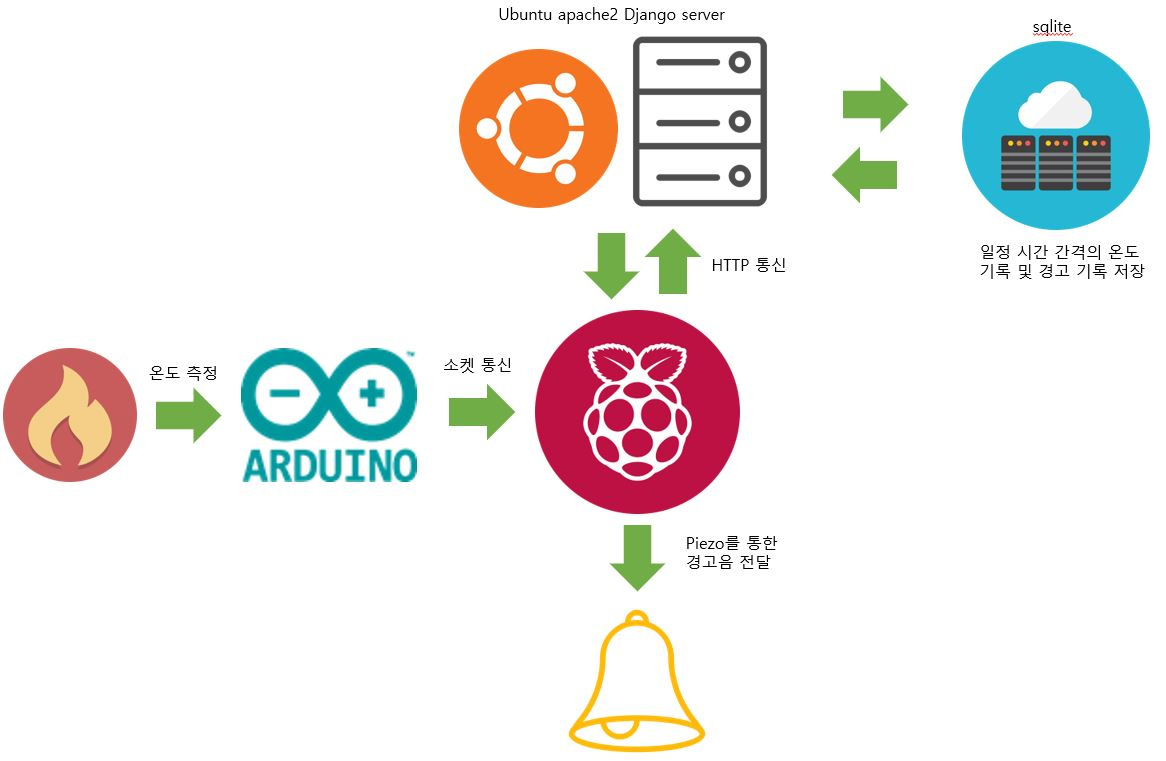
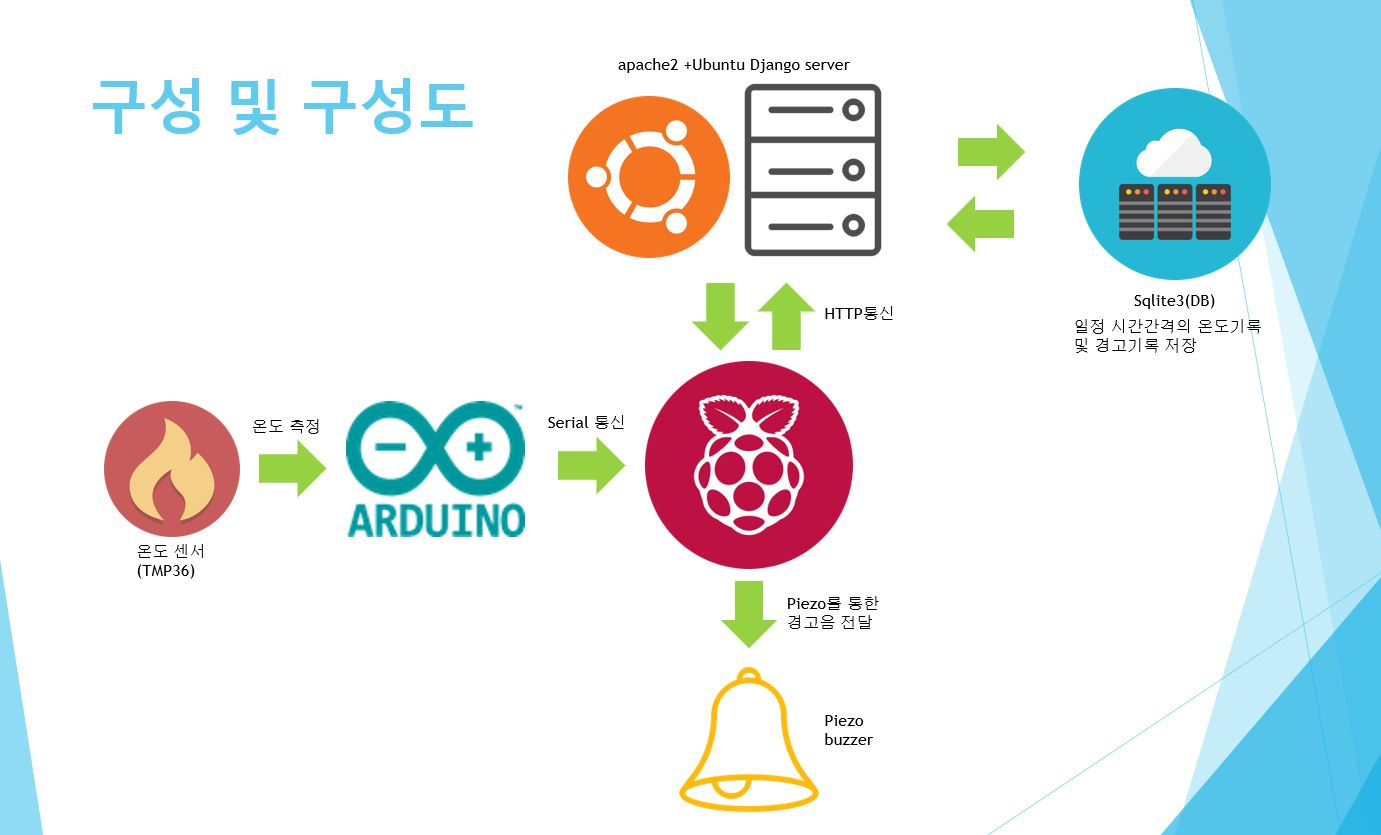
README.md

Changed region(s): [[0.0, 0.0, 1.0, 1.0], [0.0617, 0.0907, 0.3396, 0.1813], [0.0, 0.6951, 0.0309, 1.0]]

diff --git a/README.md b/README.md
@@ -6,8 +6,8 @@
 
 
 ##  팀 소개
-* 팀장: 전진우 팀원: 나윤호 김진우
-
+* 팀장: 전진우 
+* 팀원: 나윤호 김진우
 
 
 
@@ -39,21 +39,12 @@ Raspberry Pi 와 Ubuntu machine을 서버로 이용한 network service를 창안
 
 
 
-### 구성
-#### Raspberry pi  <img src="./image/raspberry.png" height="75">
 
 
-#### Apache Web server django application <img src="./image/server.png" height="75">
-
-
-#### DB (sqlite) <img src="./image/database.png" height="75">
-
-
-#### PC Web browser 
+####  구성도 <img src="./image/organization.JPG">
 
 
 
-#### 시스템 구성도 <img src="./image/organization.JPG">
 
 
 ### Question and Answer
